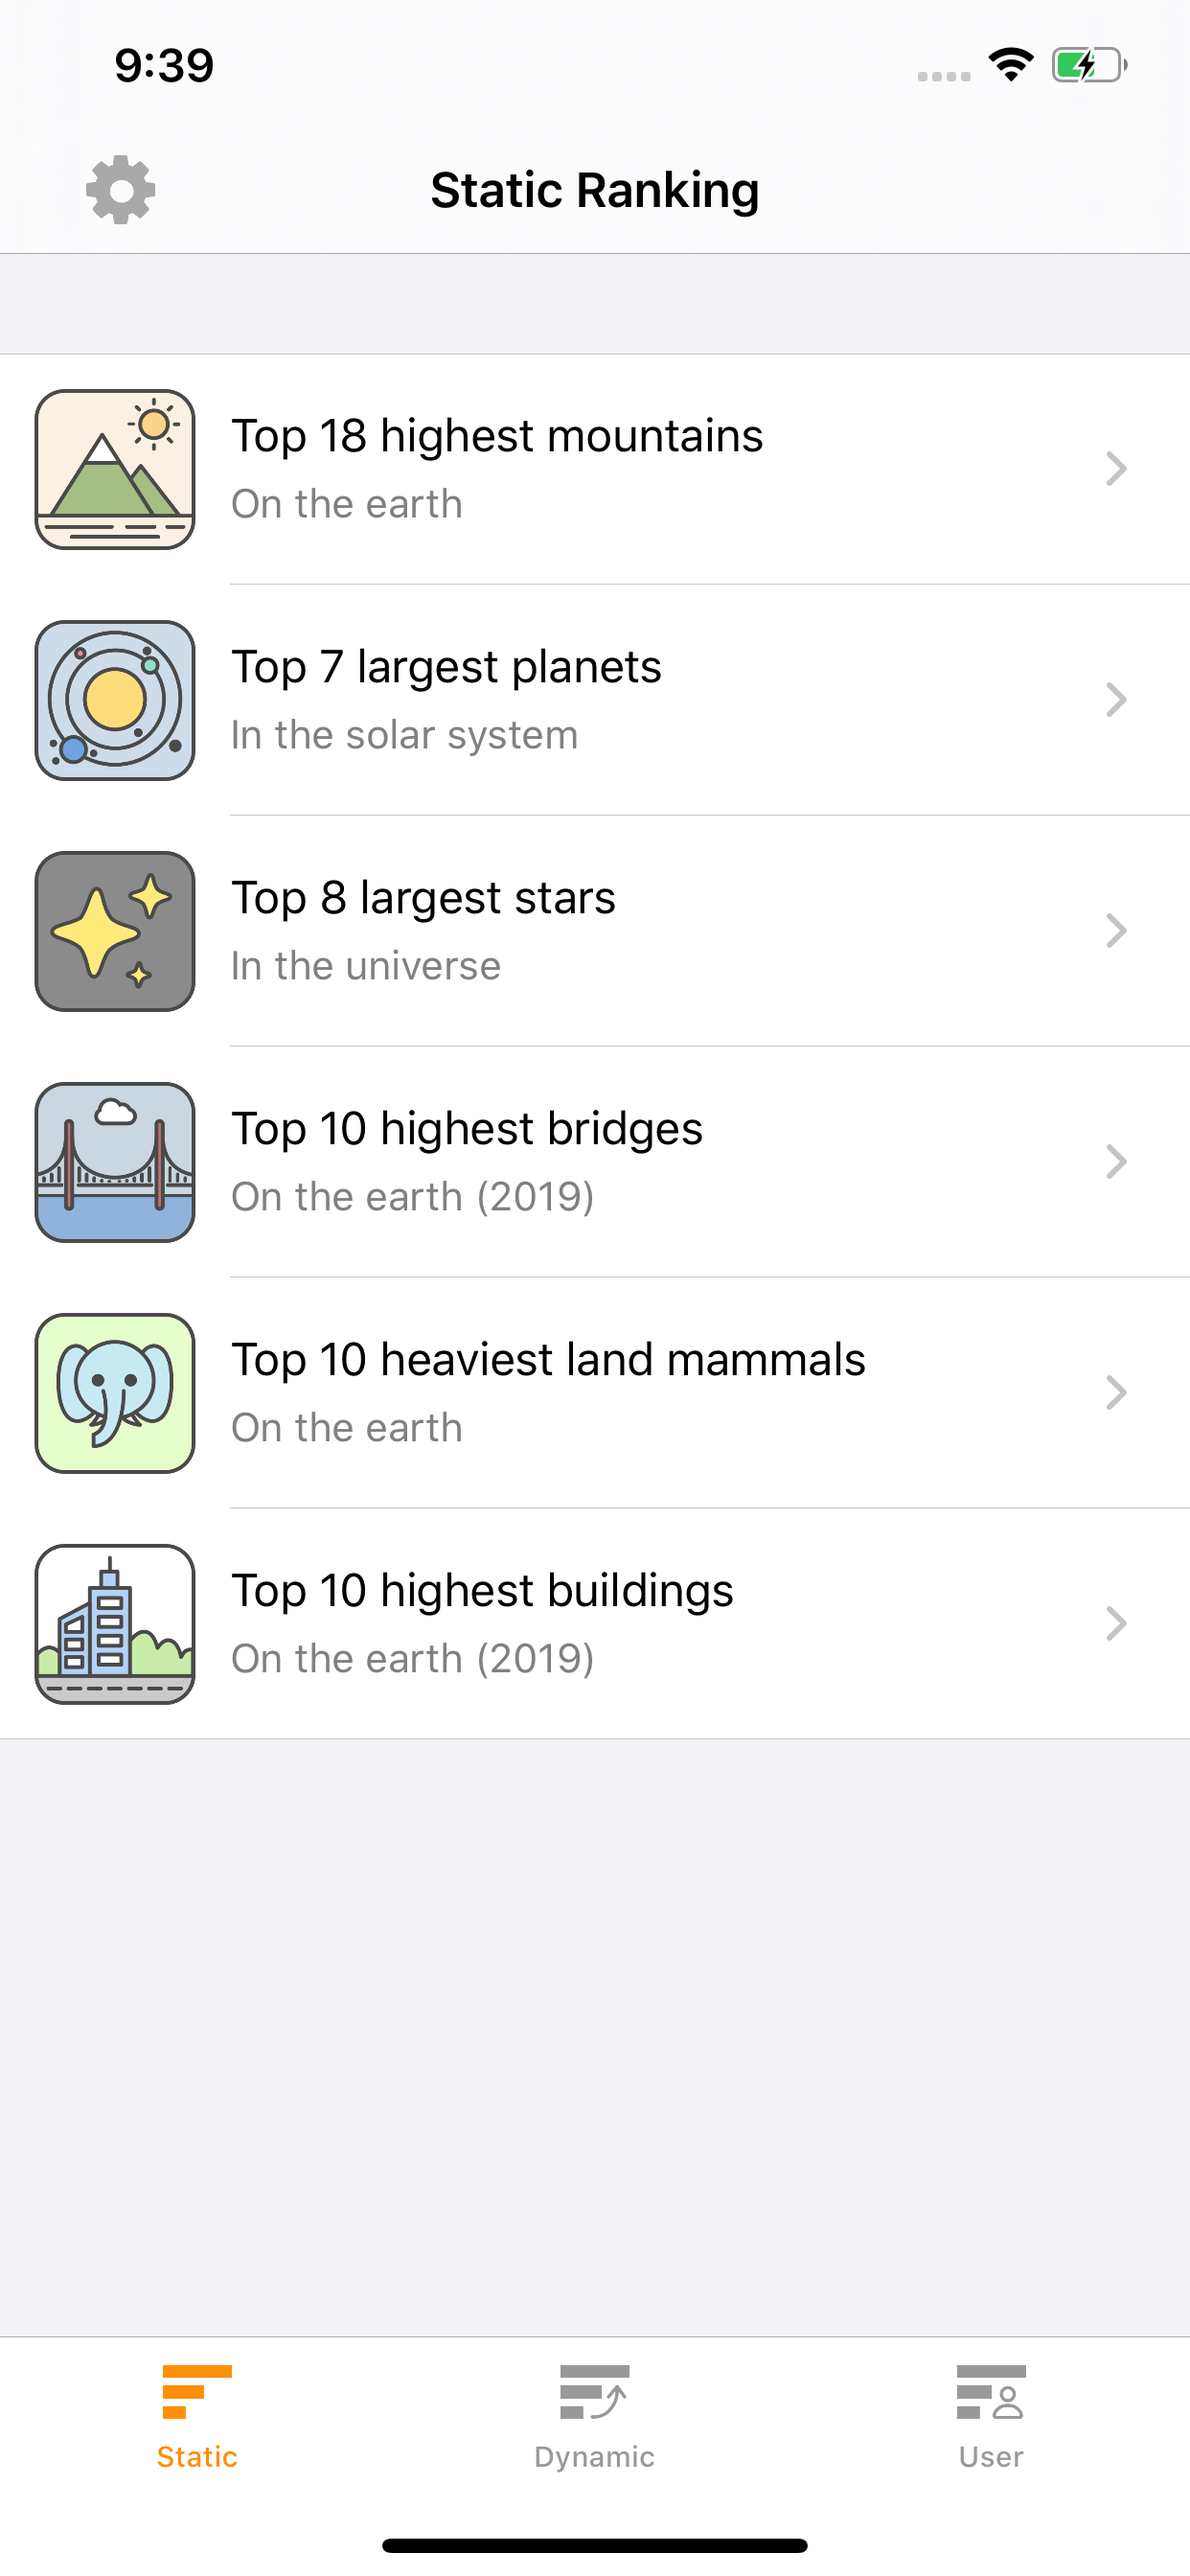
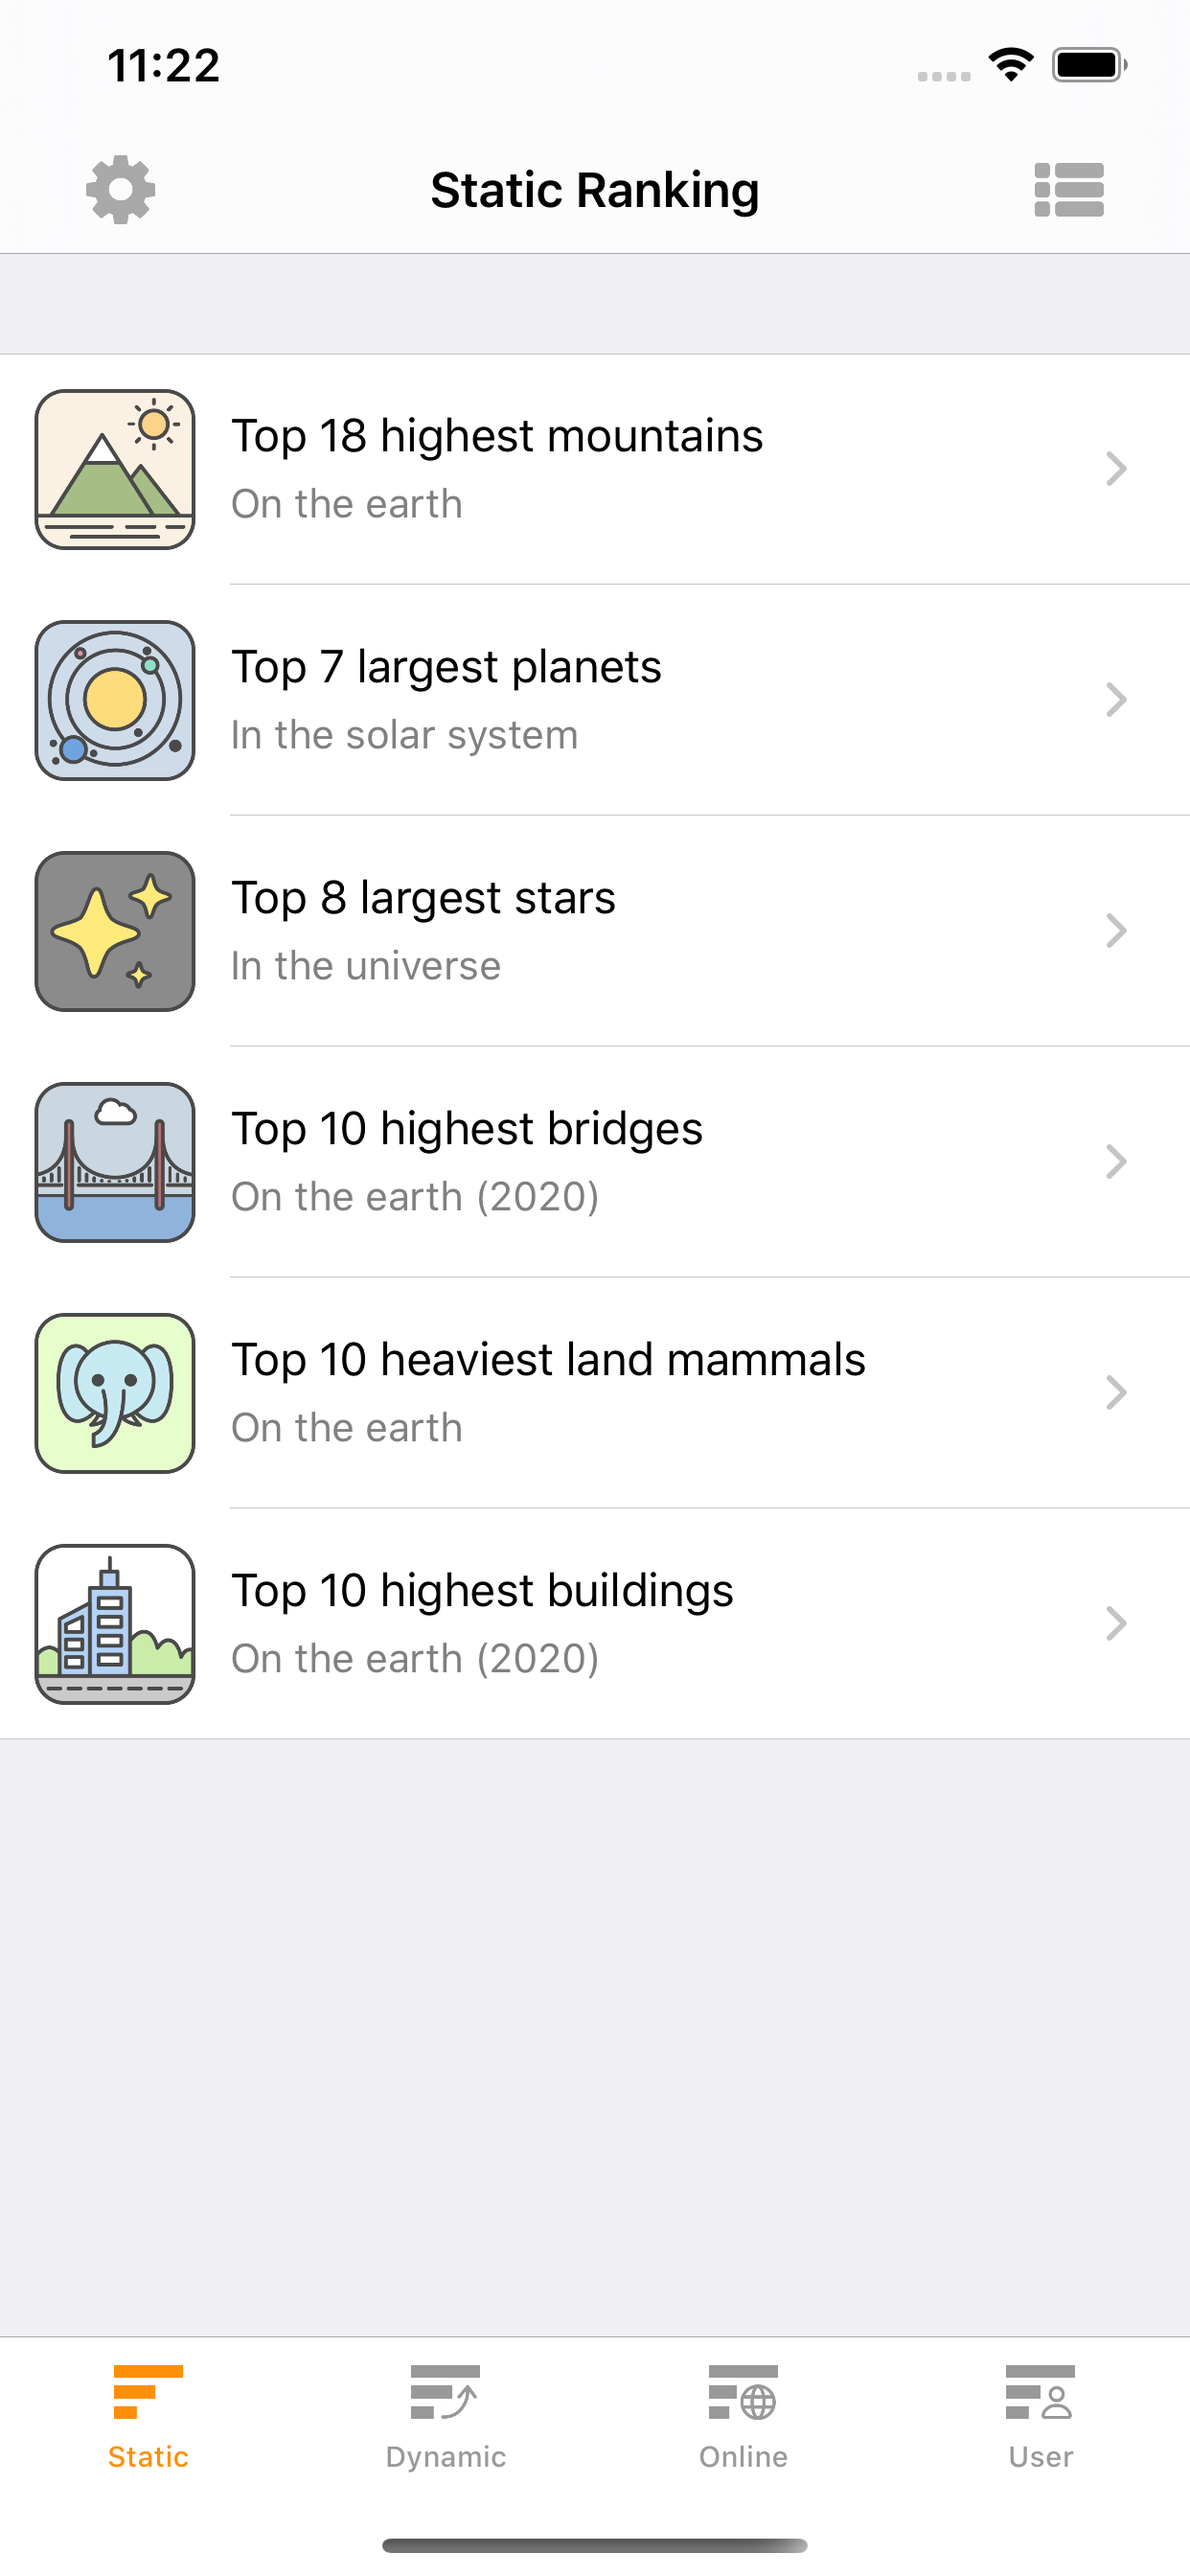
version 1.1.0 build 1.1.1

diff --git a/index.html b/index.html
@@ -94,8 +94,11 @@
                 <div class="col-md-9" role="main">
 
 <h1 id="top-rankings">Top Rankings</h1>
-<p>Top Rankings list some interesting rankings from Wikipedia <a href="https://www.wikipedia.org/">https://www.wikipedia.org/</a>, The World Bank <a href="https://data.worldbank.org/">https://data.worldbank.org/</a>, and OECD data <a href="https://data.oecd.org/">https://data.oecd.org/</a>.</p>
-<p>It provides a convenient way to visualize a ranking with animation and pictures. Also, the dynamic rankings gives an interactive way for users to see the changing of rankings in a given range of time.</p>
+<p>Top Rankings list some interesting rankings from Wikipedia <a href="https://www.wikipedia.org/">https://www.wikipedia.org/</a>, The World Bank <a href="https://data.worldbank.org/">https://data.worldbank.org/</a>,  OECD data <a href="https://data.oecd.org/">https://data.oecd.org/</a>, and GitHub API.</p>
+<p>It provides a convenient way to visualize a ranking with animation and pictures.</p>
+<p>The dynamic rankings give an interactive way for users to see the changing of rankings in a given range of time.</p>
+<p>The online rankings show the most recent rankings by using API from various websites.</p>
+<p>Users can also create and edit their own rankings.</p>
 <p>The available static rankings are:</p>
 <ol>
 <li>Top 18 highest mountains on the earth</li>
@@ -113,6 +116,16 @@
 <li>Top 10 countries by life expectancy in the world (1980-2017)</li>
 <li>Top 10 countries by CO₂ emissions in the world (1992-2014)</li>
 <li>Top 10 countries by military expenditure in the world (1993-2018)</li>
+</ol>
+<p>The available online rankings are:</p>
+<ol>
+<li>Top 24 GitHub trending repos by daily stars in the world</li>
+<li>Top 25 GitHub trending repos by weekly stars in the world</li>
+<li>Top 25 GitHub trending repos by monthly stars in the world</li>
+</ol>
+<p>The available user ranking is:</p>
+<ol>
+<li>Demo: My top 10 tourist sites in the life (can edit or delete)</li>
 </ol>
 <p>We will add more rankings in the future.</p>
 <h1 id="screenshot">Screenshot</h1>
@@ -207,5 +220,5 @@
 
 <!--
 MkDocs version : 1.0.4
-Build Date UTC : 2019-12-28 03:33:50
+Build Date UTC : 2020-01-02 15:26:46
 -->
